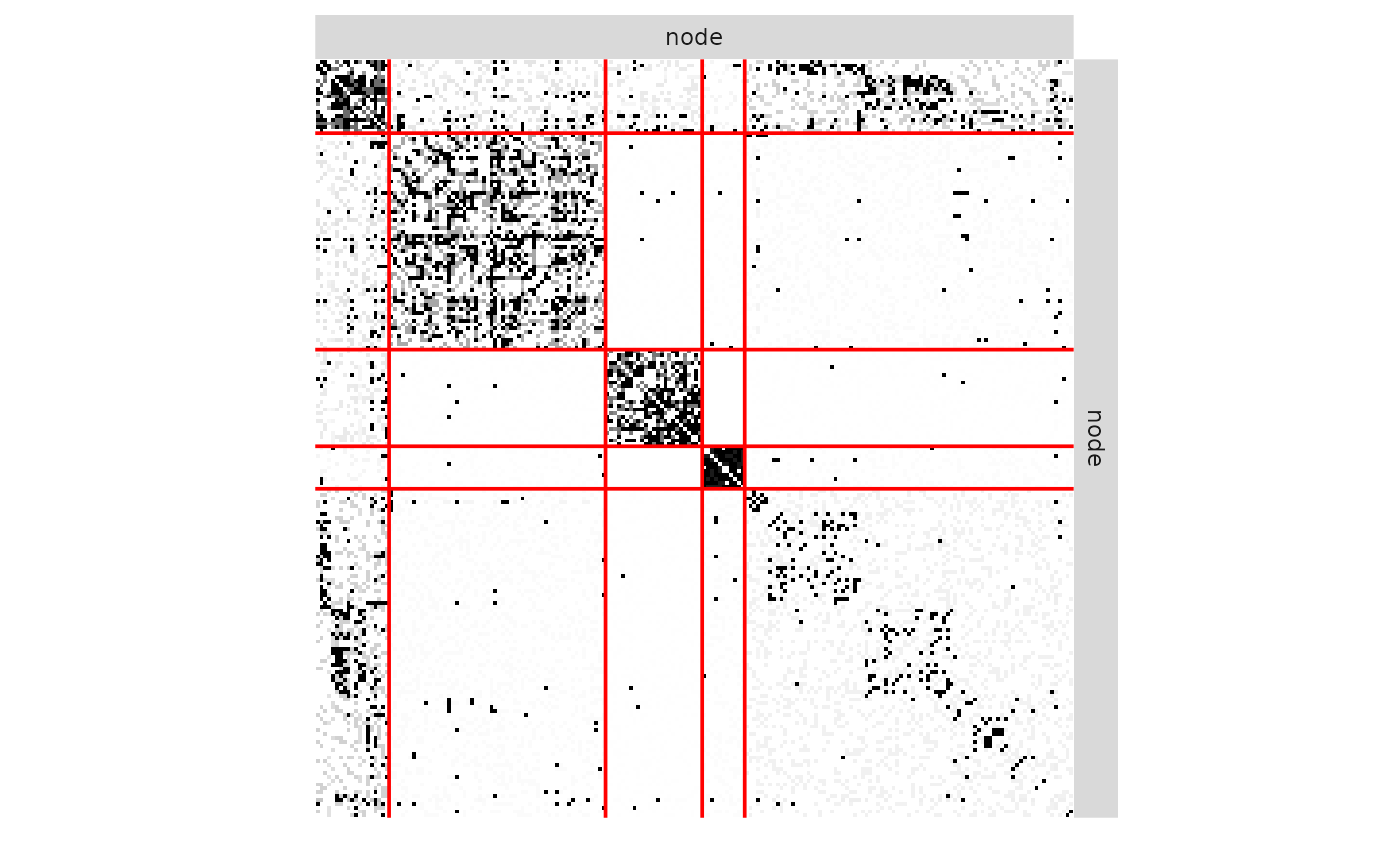
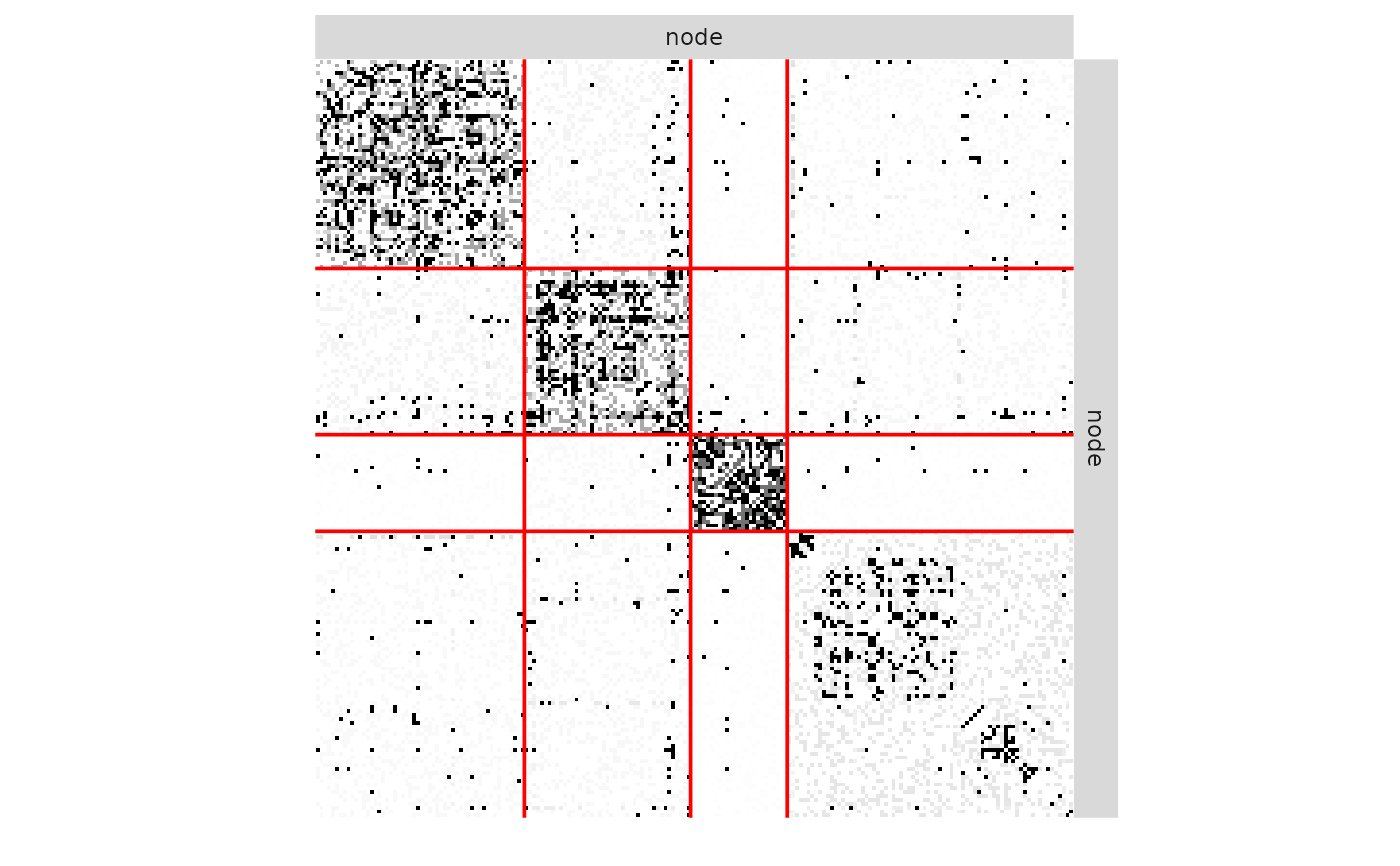
Deploying to gh-pages from @ GrossSBM/missSBM@d9359d9970eb1fddbed73dab0935649ef5387a77 🚀

Changed region(s): [[0.215, 0.0624, 0.7679, 0.9353]]

diff --git a/articles/case_study_war_networks.html b/articles/case_study_war_networks.html
@@ -260,7 +260,7 @@ default in the sampling model.</p>
 <span>  <span class="fu"><a href="https://ggplot2.tidyverse.org/reference/labs.html" class="external-link">labs</a></span><span class="op">(</span></span>
 <span>    x <span class="op">=</span> <span class="st">"observed node"</span>,</span>
 <span>    y <span class="op">=</span> <span class="st">"military power (log-scale)"</span>,</span>
-<span>    title <span class="op">=</span> <span class="st">"Military power distribution according to node status"</span></span>
+<span>    title <span class="op">=</span> <span class="st">"Military power according to node status"</span></span>
 <span>  <span class="op">)</span> <span class="op">+</span></span>
 <span>  <span class="fu"><a href="https://ggplot2.tidyverse.org/reference/ggtheme.html" class="external-link">theme_minimal</a></span><span class="op">(</span><span class="op">)</span></span></code></pre></div>
 <p><img src="case_study_war_networks_files/figure-html/power_sampling-1.png" class="r-plt" alt="" width="480"></p>

diff --git a/reference/missSBM_collection.html b/reference/missSBM_collection.html
@@ -293,7 +293,7 @@ directions are searched. Default "both".</p></dd>
 <span class="r-out co"><span class="r-pr">#&gt;</span> </span>
 <span class="r-out co"><span class="r-pr">#&gt;</span>  Initialization of 5 model(s). </span>
 <span class="r-out co"><span class="r-pr">#&gt;</span>  Performing VEM inference</span>
-<span class="r-out co"><span class="r-pr">#&gt;</span>  	Model with 4 blocks.
 	Model with 2 blocks.
 	Model with 5 blocks.
 	Model with 1 blocks.
 	Model with 3 blocks.
 Polishing (node-swap)</span>
+<span class="r-out co"><span class="r-pr">#&gt;</span>  	Model with 2 blocks.
 	Model with 3 blocks.
 	Model with 1 blocks.
 	Model with 4 blocks.
 	Model with 5 blocks.
 Polishing (node-swap)</span>
 <span class="r-out co"><span class="r-pr">#&gt;</span> </span>
 <span class="r-out co"><span class="r-pr">#&gt;</span>  Looking for better solutions</span>
 <span class="r-out co"><span class="r-pr">#&gt;</span>  Pass 1   Going forward ++++
                                                                                                    
 Pass 1   Going backward ++++
                                                                                                    
</span>

diff --git a/reference/missSBM_fit.html b/reference/missSBM_fit.html
@@ -387,7 +387,7 @@ than before the call.</p><div class="section">
 <span class="r-out co"><span class="r-pr">#&gt;</span> </span>
 <span class="r-out co"><span class="r-pr">#&gt;</span>  Initialization of 3 model(s). </span>
 <span class="r-out co"><span class="r-pr">#&gt;</span>  Performing VEM inference</span>
-<span class="r-out co"><span class="r-pr">#&gt;</span>  	Model with 3 blocks.
 	Model with 5 blocks.
 	Model with 4 blocks.
 Polishing (node-swap)</span>
+<span class="r-out co"><span class="r-pr">#&gt;</span>  	Model with 3 blocks.
 	Model with 4 blocks.
 	Model with 5 blocks.
 Polishing (node-swap)</span>
 <span class="r-out co"><span class="r-pr">#&gt;</span> </span>
 <span class="r-out co"><span class="r-pr">#&gt;</span>  Looking for better solutions</span>
 <span class="r-out co"><span class="r-pr">#&gt;</span>  Pass 1   Going forward ++
                                                                                                    
 Pass 1   Going backward ++
                                                                                                    
</span>

diff --git a/articles/case_study_war_networks.md b/articles/case_study_war_networks.md
@@ -246,7 +246,7 @@ ggplot(aes(x = factor(observedNodes), y = belligerent_power)) +
   labs(
     x = "observed node",
     y = "military power (log-scale)",
-    title = "Military power distribution according to node status"
+    title = "Military power according to node status"
   ) +
   theme_minimal()
 ```

diff --git a/reference/missSBM_collection.md b/reference/missSBM_collection.md
@@ -303,7 +303,7 @@ collection <- estimateMissSBM(adjacencyMatrix, 1:5, sampling = "dyad")
 #> 
 #>  Initialization of 5 model(s). 
 #>  Performing VEM inference
-#>      Model with 4 blocks.    Model with 2 blocks.    Model with 5 blocks.    Model with 1 blocks.    Model with 3 blocks. Polishing (node-swap)
+#>      Model with 2 blocks.    Model with 3 blocks.    Model with 1 blocks.    Model with 4 blocks.    Model with 5 blocks. Polishing (node-swap)
 #> 
 #>  Looking for better solutions
 #>  Pass 1   Going forward ++++                                                                                                     Pass 1   Going backward ++++                                                                                                    

diff --git a/reference/missSBM_fit.md b/reference/missSBM_fit.md
@@ -407,7 +407,7 @@ collection <- estimateMissSBM(adjMatrix, 3:5, sampling = "dyad")
 #> 
 #>  Initialization of 3 model(s). 
 #>  Performing VEM inference
-#>      Model with 3 blocks.    Model with 5 blocks.    Model with 4 blocks. Polishing (node-swap)
+#>      Model with 3 blocks.    Model with 4 blocks.    Model with 5 blocks. Polishing (node-swap)
 #> 
 #>  Looking for better solutions
 #>  Pass 1   Going forward ++                                                                                                     Pass 1   Going backward ++                                                                                                    